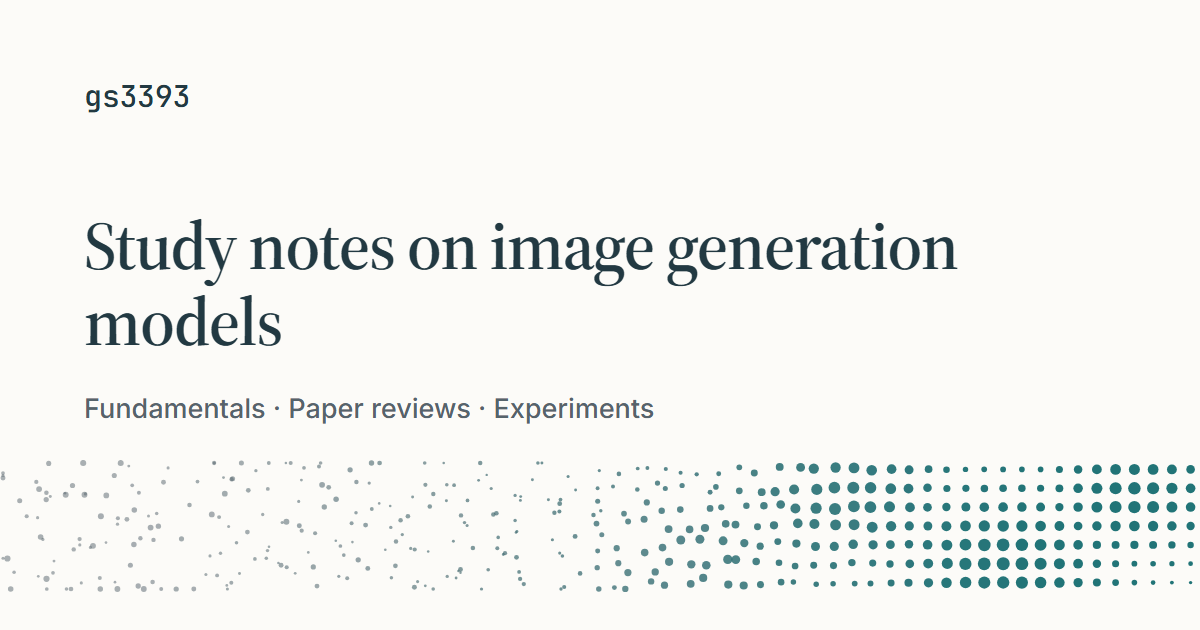
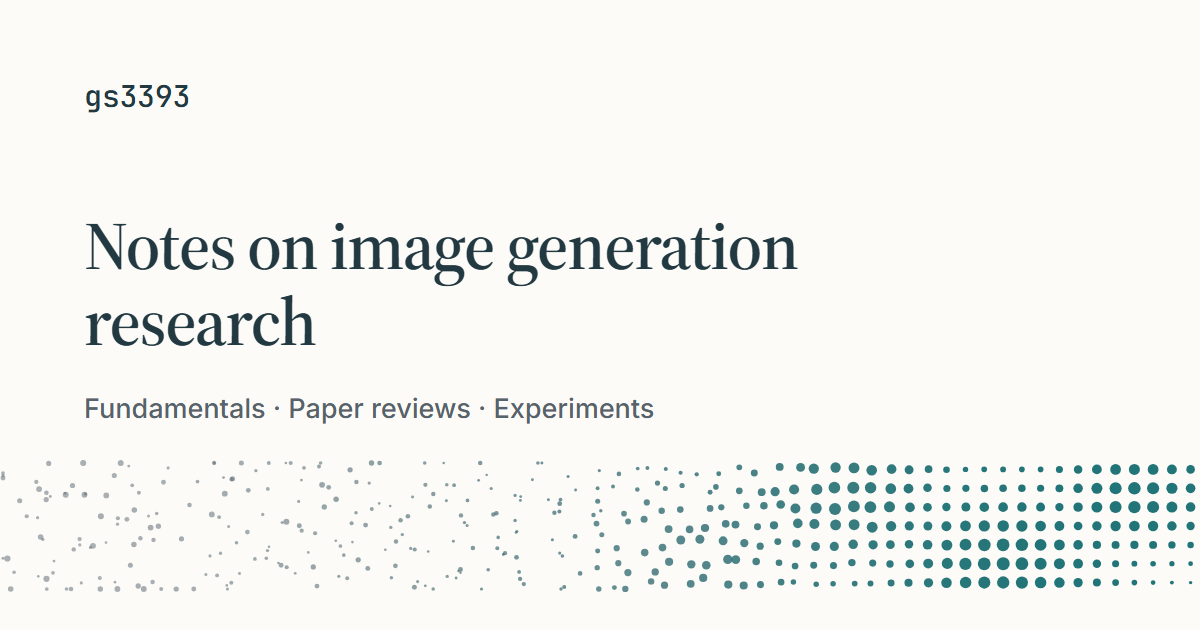
Frame the page as a sheet on a desk, scale up on wide screens, plainer copy
The reading column cannot fill a wide screen, so the page is now bounded
instead: on desktop the body, navbar and footer paint a centered band of
paper with a hairline at each edge over a slightly darker background, and
the space outside reads as desk rather than as empty page. The root font
now scales to 20.6px at 1920px and 22px from 2180px, so the sheet is
1316px wide at 1920px and 1408px at 2560px. The note-kind cards on Home
stick beside the recent list while it scrolls.

Copy: About, the Home introduction and the kind blurbs are rewritten in a
plainer first-person voice, without section headings, from the facts the
author gave (a master's in AI, an ML/AI engineer at an AI startup, keeping
up with research on the side). No "work"/"working" in site copy.

QA capture now includes a 1920px viewport.

Changed region(s): [[0.0617, 0.3317, 0.8017, 0.573]]

diff --git a/styles/site.scss b/styles/site.scss
@@ -3,6 +3,8 @@
 // Site-wide tokens. Colors and font families come from _brand.yml;
 // the fallbacks below keep this file usable if the brand layer is absent.
 $brand-paper: #FCFBF8 !default;
+$brand-desk: #EFECE5 !default;
+$brand-sheet-edge: #DDD8CE !default;
 $brand-plate: #FFFFFF !default;
 $brand-ink: #1F2A30 !default;
 $brand-slate: #223942 !default;
@@ -32,6 +34,11 @@ $page-gap: 3rem;
 $page-margin: 16rem;
 $page-width: $page-body + $page-gap + $page-margin; // 59rem
 $page-gutter: 2rem;
+// The sheet: the page columns plus an inset on each side, drawn as a lighter
+// band on a slightly darker background so the space outside reads as desk,
+// not as an empty page.
+$sheet-pad: 2.5rem;
+$sheet-half: ($page-width + 2 * $sheet-pad) * 0.5; // 32rem
 
 $font-size-root: 18px;
 $headings-color: $brand-slate;
@@ -56,6 +63,7 @@ $blockquote-color: $brand-ink;
 
 :root {
   --c-paper: #{$brand-paper};
+  --c-desk: #{$brand-desk};
   --c-plate: #{$brand-plate};
   --c-ink: #{$brand-ink};
   --c-slate: #{$brand-slate};
@@ -72,12 +80,39 @@ $blockquote-color: $brand-ink;
   --font-mono-ui: #{$font-mono-ui};
 }
 
-// Fluid root size: 17px at 1200px viewports, 20px from 1800px up. Everything
-// below is in rem, so type, column widths and spacing grow together on large
-// screens while the line length stays the same.
-:root { font-size: clamp(17px, calc(11px + 0.5vw), 20px); }
+// Fluid root size: 17px at small desktops, 20.6px at 1920px, 22px from 2180px
+// up. Everything below is in rem, so type, column widths and spacing grow
+// together on large screens while the line length stays the same.
+:root { font-size: clamp(17px, calc(10px + 0.55vw), 22px); }
 
 html { -webkit-text-size-adjust: 100%; }
+
+/* ---------- Sheet ----------
+   On desktop the page is a centered band of paper on a desk-colored
+   background, with a hairline at each edge. The band is painted as a
+   background gradient on body, navbar and footer, so it needs no extra
+   markup and lines up with the page grid, which is centered the same way. */
+@mixin sheet-band {
+  background-color: $brand-desk;
+  background-image: linear-gradient(
+    to right,
+    $brand-desk 0,
+    $brand-desk calc(50% - #{$sheet-half} - 1px),
+    $brand-sheet-edge calc(50% - #{$sheet-half} - 1px),
+    $brand-sheet-edge calc(50% - #{$sheet-half}),
+    $brand-paper calc(50% - #{$sheet-half}),
+    $brand-paper calc(50% + #{$sheet-half}),
+    $brand-sheet-edge calc(50% + #{$sheet-half}),
+    $brand-sheet-edge calc(50% + #{$sheet-half} + 1px),
+    $brand-desk calc(50% + #{$sheet-half} + 1px)
+  );
+}
+@media (min-width: 992px) {
+  html { background: $brand-desk; }
+  body { @include sheet-band; }
+  .navbar { @include sheet-band; }
+  footer.footer .nav-footer { background-color: transparent; }
+}
 
 /* ---------- Page grid ----------
    Quarto lays pages out on a named-line CSS grid. This replaces its desktop

diff --git a/styles/components.scss b/styles/components.scss
@@ -116,7 +116,11 @@ main.content .note-row h3 a:hover {
   margin: 1.2rem 0 0;
 }
 .home-main > .section-eyebrow { display: block; margin-top: 3rem; }
-.home-kinds { padding-top: 1.4rem; }
+.home-kinds {
+  padding-top: 1.4rem;
+  position: sticky;
+  top: 5rem;
+}
 .home-kinds .kind-grid {
   grid-template-columns: 1fr;
   gap: .8rem;
@@ -124,7 +128,7 @@ main.content .note-row h3 a:hover {
 }
 @media (max-width: 991.98px) {
   .home-top { grid-template-columns: 1fr; row-gap: 2rem; }
-  .home-kinds { padding-top: 0; }
+  .home-kinds { padding-top: 0; position: static; }
   .home-kinds .kind-grid { grid-template-columns: repeat(auto-fit, minmax(220px, 1fr)); }
 }
 .home-hero { margin: 0; }
